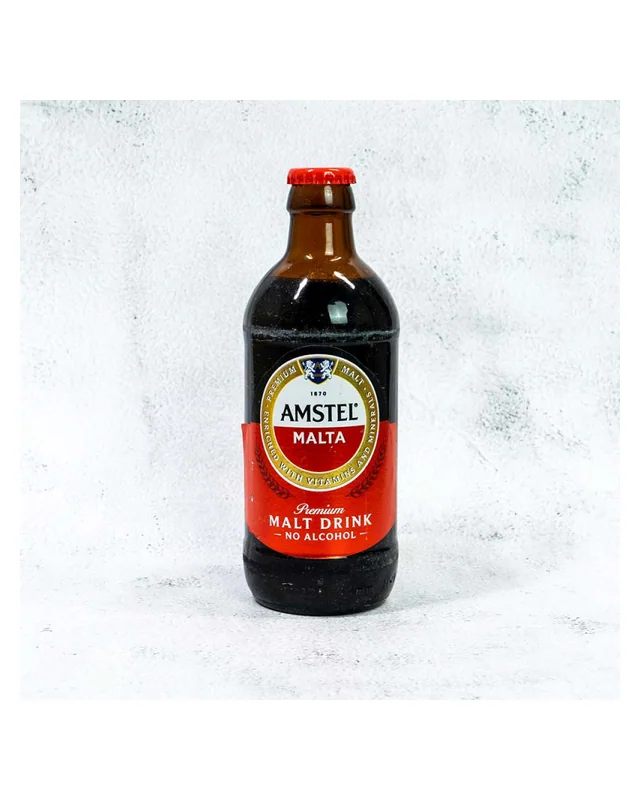
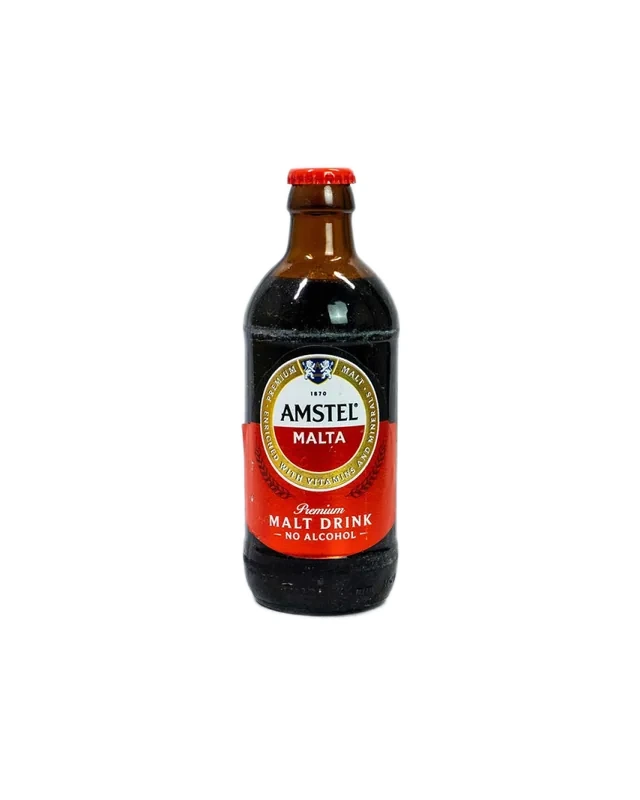
Clean Amstel Malta and Legend photo backgrounds (#68)
Replace two visibly textured product photograph backgrounds with reviewed pure-white composites preserving real bottle pixels and labels. No database reference or business logic changes. Codex and CI pass.

diff --git a/src/domain/packshot-background-assets.test.ts b/src/domain/packshot-background-assets.test.ts
@@ -1,0 +1,20 @@
+import assert from "node:assert/strict";
+import { test } from "node:test";
+import { readFileSync } from "node:fs";
+import { createHash } from "node:crypto";
+
+const assets = [
[2 lines of base64/hex data omitted]
+] as const;
+
+test("the two manually approved white-background real bottle packshots are bundled unchanged", () => {
+  for (const [slug, hash] of assets) {
+    const path = new URL(`../../public/catalogue-photos/${slug}.webp`, import.meta.url);
+    const bytes = readFileSync(path);
+    assert.ok(bytes.length > 8000 && bytes.length < 1024 * 1024, `Suspicious ${slug} image file size`);
+    assert.equal(bytes.toString("ascii", 0, 4), "RIFF");
+    assert.equal(bytes.toString("ascii", 8, 12), "WEBP");
+    assert.equal(createHash("sha256").update(bytes).digest("hex"), hash);
+  }
+});

diff --git a/docs/packshot-background-review.md b/docs/packshot-background-review.md
@@ -1,0 +1,23 @@
+# Real packshot background cleanup — accepted preview review
+
+## Goal
+All product photographs use a clean, plain white background with readable, unchanged real packaging and consistent 640 × 800 WebP framing.
+
+## Reviewed on 14 October 2026
+The **two real photographs** with visible photographic room backgrounds were successfully segmented and re-encoded, then visually compared with their actual published originals.
+
+| Product | Original problem | Review | Final production filename |
+|---|---|---|---|
+| Amstel Malta 33cl glass bottle | Textured blue-grey photo wall | Clean white canvas; cap, label, amber glass and bottle edge retained | `public/catalogue-photos/amstel-malta-33cl.webp` |
+| Legend 60cl Extra Stout glass bottle | Textured grey wall and floor | Clean white canvas; cap, label, bottle edge and printed markings retained | `public/catalogue-photos/legend-60cl.webp` |
+
+Method: small foreground segmentation model `u2netp` computed masks from **real original product photographs**; the mask was applied to the original RGB pixels, and the background composited on white. Packaging/labels were **not generated or repainted**. WebP outputs have no source EXIF. A visual review of both 640×800 candidates confirmed their bottle/label remains recognizable.
+
+The improved WebP files replace the original filenames, so existing database references continue working and **no database migration is needed**. No catalogue name, variant, selling price, stock, sales or receipt changed.
+
[2 lines of base64/hex data omitted]
+
+Source provenance and *unconfirmed third-party photo reproduction rights* are documented in `docs/catalogue-photo-sources.md`. A user's personal project does not itself give a licence for public redistribution. Replace with an authorised image or obtain permission before commercial release.
+
+The temporary importer and preview assets were removed from this branch after visual review; only the two accepted WebPs are carried into the shipping PR.
